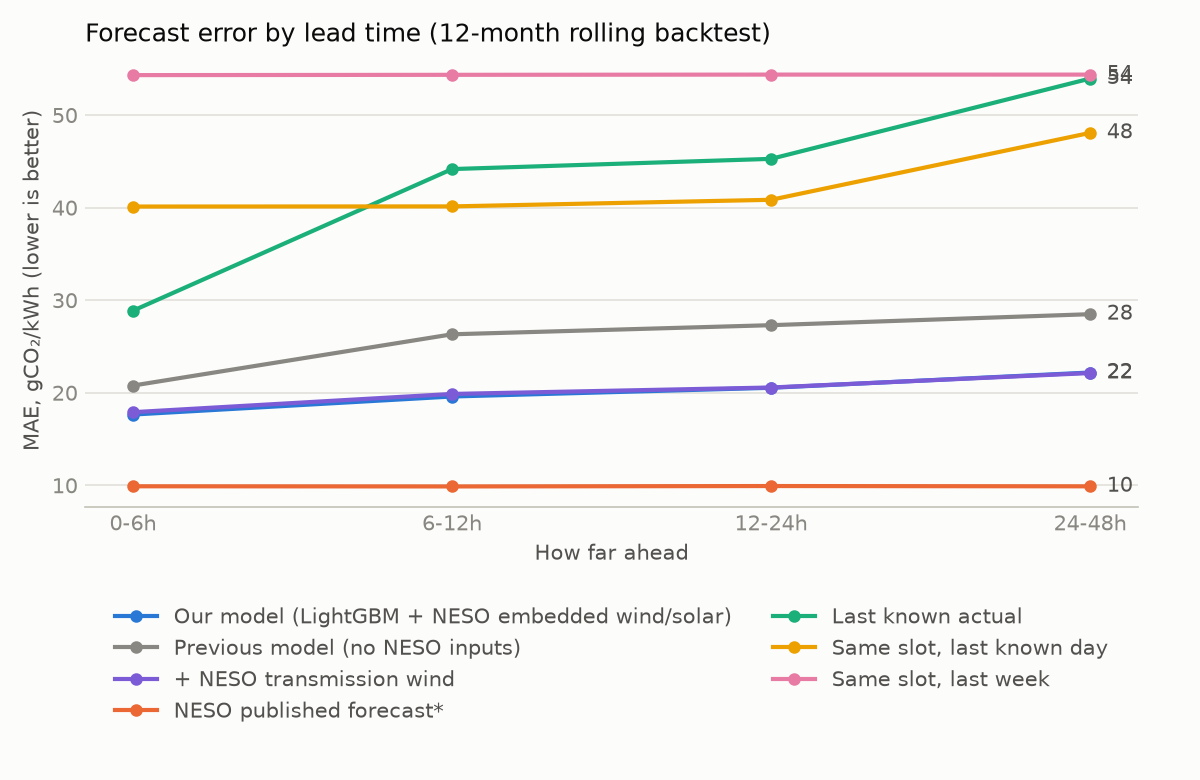
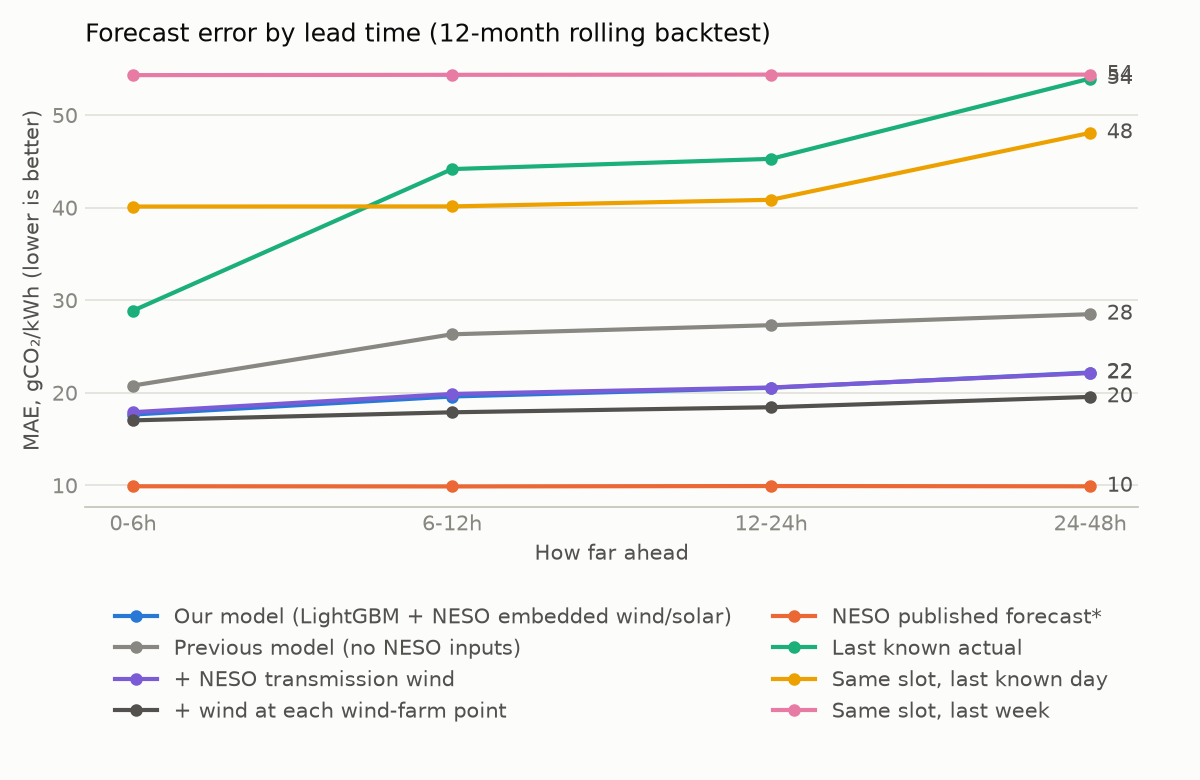
Wind speed at each wind-farm point: backtest candidate (not live yet)
Adds 8 wind-farm weather points and an 11-input wind variant to the backtest.
model_wind_points MAE 18.7 vs 20.9 (bootstrap -2.13, 95% -2.76 to -1.50).
Observed and snapshot fetches stay on the original 7 points to save quota;
the live model's FEATURES are unchanged until the MotherDuck backfill (PR2).

Changed region(s): [[0.6475, 0.7692, 0.925, 0.9231], [0.0925, 0.4923, 0.9558, 0.5538], [0.0925, 0.8923, 0.4317, 0.9231]]

diff --git a/analysis/backtest.py b/analysis/backtest.py
@@ -11,6 +11,7 @@ from __future__ import annotations
 import json
 import sys
 from datetime import UTC, datetime
+from itertools import cycle
 from pathlib import Path
 
 import matplotlib
@@ -52,23 +53,31 @@ variants = {
     "model": fc.FEATURES,
     "model_v2": fc.BASE_FEATURES,
     "model_neso_wind": fc.BASE_FEATURES + fc.NESO_FEATURES,
+    "model_wind_points": fc.FEATURES + fc.WIND_POINT_FEATURES,
 }
+# A wind point with gaps would quietly weaken model_wind_points; show coverage before trusting it.
+print(
+    "Non-null share per wind point:", wx[fc.WIND_POINT_FEATURES].notna().mean().round(3).to_dict()
+)
 preds = fc.backtest(grid, wx, hols, months=12, neso=neso, variants=variants)
 methods = {"model": "Our model (LightGBM + NESO embedded wind/solar)",
            "model_v2": "Previous model (no NESO inputs)",
            "model_neso_wind": "+ NESO transmission wind",
+           "model_wind_points": "+ wind at each wind-farm point",
            "neso": "NESO published forecast*",
            "last_actual": "Last known actual",
            "lag_day": "Same slot, last known day", "lag_week": "Same slot, last week"}  # fmt: skip
 table = fc.mae_by_lead(preds, list(methods))
+VARIANTS = ("model_v2", "model_neso_wind", "model_wind_points")  # each compared with the live one
 
 # Chart: MAE by lead band, one line per method (legend + direct labels).
 bands = [b for b in table.index if b != "all"]
 fig, ax = plt.subplots(figsize=(8, 5.2), dpi=150)
 fig.patch.set_facecolor(SURFACE)
 ax.set_facecolor(SURFACE)
+# Colours repeat if variants outnumber them, rather than crash after minutes of training.
 for (col, label), colour in zip(
-    methods.items(), (BLUE, MUTED, VIOLET, ORANGE, AQUA, YELLOW, MAGENTA), strict=True
+    methods.items(), cycle((BLUE, MUTED, VIOLET, INK2, ORANGE, AQUA, YELLOW, MAGENTA))
 ):
     ax.plot(bands, table.loc[bands, col], color=colour, linewidth=2, marker="o", markersize=5,
             label=label)  # fmt: skip
@@ -120,8 +129,8 @@ regret_table = pd.DataFrame(
     {"mean regret": regret.mean(), "share within 5 of best": (regret <= 5).mean()}
 ).rename(index=methods)
 intervals = pd.DataFrame(
-    [fc.paired_bootstrap(complete, v, "model") for v in ("model_v2", "model_neso_wind")],
-    index=[methods["model_v2"], methods["model_neso_wind"]],
+    [fc.paired_bootstrap(complete, v, "model") for v in VARIANTS],
+    index=[methods[v] for v in VARIANTS],
     columns=["MAE minus live model", "95% low", "95% high"],
 )
 every_h = pd.Timedelta(fc.ISSUE_EVERY) / pd.Timedelta(hours=1)
@@ -146,6 +155,9 @@ embedded wind/solar forecasts as inputs (the vintage issued before each forecast
 one); without them (the previous model) it scores **{overall["model_v2"]:.1f}**. Also adding
 NESO's transmission wind forecast gives **{overall["model_neso_wind"]:.1f}**, but its archive only
 covers the day each forecast is published, so most 48 h targets lack it and it is left out.
+Adding forecast wind speed at each of {len(fc.WIND_POINT_FEATURES)} wind points as separate inputs
+(the wind-farm clusters plus the points already averaged) gives
+**{overall["model_wind_points"]:.1f}** (a candidate, not live).
 
 ![MAE by lead](img/backtest_mae_by_lead.png)
 

diff --git a/tests/test_forecast.py b/tests/test_forecast.py
@@ -16,10 +16,44 @@ def spine(days: int, values=None) -> pd.DataFrame:
 def hourly_weather(days: int) -> pd.DataFrame:
     idx = pd.date_range(START, periods=days * 24, freq="h")
     rng = np.random.default_rng(0)
+    wind = rng.uniform(0, 60, len(idx))
     return pd.DataFrame(
-        {"wind_speed": rng.uniform(0, 60, len(idx)), "solar_radiation": 0.0, "temperature": 10.0},
+        {"wind_speed": wind, "solar_radiation": 0.0, "temperature": 10.0}
+        | dict.fromkeys(fc.WIND_POINT_FEATURES, wind),
         index=idx,
     )
+
+
+def test_weather_sql_has_a_wind_column_per_wind_point():
+    import duckdb
+
+    con = duckdb.connect()
+    con.execute(
+        "create table w (time timestamptz, point_id varchar, wind_speed_100m double, "
+        "shortwave_radiation double, temperature_2m double)"
+    )
+    t = START.to_pydatetime()
+    con.executemany(
+        "insert into w values (?, ?, ?, 0, 10)",
+        [(t, "dogger_bank_offshore", 30.0), (t, "north_scotland", 12.0)],
+    )
+    wx = con.sql(fc.GB_WEATHER_SQL.format(table="w", where="")).df().set_index("hour_utc")
+    assert set(fc.WIND_POINT_FEATURES) <= set(wx.columns)
+    # Each point's own speed, not an average; points with no row stay NULL rather than 0.
+    assert wx["wind_dogger_bank_offshore"].iloc[0] == 30.0
+    assert wx["wind_north_scotland"].iloc[0] == 12.0
+    assert pd.isna(wx["wind_thames_offshore"].iloc[0])
+
+
+def test_wind_points_are_pinned():
+    # WIND_POINTS comes from role strings; pin it so a role edit can't quietly change model inputs.
+    expected = (
+        "north_scotland", "south_scotland", "north_sea_offshore", "moray_firth_offshore",
+        "forth_offshore", "dogger_bank_offshore", "irish_sea_offshore", "lincs_offshore",
+        "east_anglia_offshore", "thames_offshore", "southern_uplands",
+    )  # fmt: skip
+    assert [f"wind_{p}" for p in expected] == fc.WIND_POINT_FEATURES
+    assert not set(fc.WIND_POINT_FEATURES) & set(fc.FEATURES)
 
 
 def test_features_never_use_data_after_issue_minus_lag():
@@ -333,3 +367,16 @@ def test_window_regret_can_skip_partly_scored_issues():
     preds.loc[(preds["issued_at"] == preds["issued_at"].max()) & (preds["lead"] > 10), "y"] = np.nan
     assert len(fc.window_regret(preds, ["b"])) == 30
     assert len(fc.window_regret(preds, ["b"], full_horizon=True)) == 29
+
+
+def test_fit_tolerates_all_missing_wind_point_columns():
+    # Live state on MotherDuck until the wind-farm points are backfilled: every wind_* is NaN.
+    pytest.importorskip("lightgbm")
+    grid = spine(30)
+    wx = hourly_weather(30)
+    wx[fc.WIND_POINT_FEATURES] = np.nan
+    cols = fc.FEATURES + fc.WIND_POINT_FEATURES
+    model = fc.fit(fc.training_rows(grid, wx, set(), START + pd.Timedelta(days=25)), cols)
+    test = fc.features(grid, wx, pd.DatetimeIndex([START + pd.Timedelta(days=27)]), set())
+    assert test[fc.WIND_POINT_FEATURES].isna().all().all()
+    assert np.isfinite(model.predict(test[cols])).all()

diff --git a/src/gridcarbon/extract/weather.py b/src/gridcarbon/extract/weather.py
@@ -38,7 +38,8 @@ class WeatherPoint:
     role: str  # why this point matters for the grid
 
 
-WEATHER_POINTS: tuple[WeatherPoint, ...] = (
+# The points the live features and dbt averages use; observed and snapshot fetches need no more.
+GRID_POINTS: tuple[WeatherPoint, ...] = (
     WeatherPoint("north_scotland", 57.48, -4.22, "onshore wind + hydro"),
     WeatherPoint("south_scotland", 55.86, -4.25, "onshore wind, demand"),
     WeatherPoint("north_sea_offshore", 53.90, 1.80, "offshore wind (Dogger/Hornsea area)"),
@@ -47,6 +48,20 @@ WEATHER_POINTS: tuple[WeatherPoint, ...] = (
     WeatherPoint("london", 51.51, -0.13, "demand, solar"),
     WeatherPoint("south_england_solar", 51.06, -1.80, "solar farms"),
 )
+WEATHER_POINTS: tuple[WeatherPoint, ...] = GRID_POINTS + (
+    # Wind-farm clusters (coordinates from Wikipedia's UK offshore wind farm list, Oct 2026), each
+    # a separate forecast input so the model learns their weight instead of us typing capacities.
+    WeatherPoint("moray_firth_offshore", 58.10, -2.95, "offshore wind (Beatrice, Moray E/W)"),
+    WeatherPoint("forth_offshore", 56.55, -1.85, "offshore wind (Seagreen, Neart na Gaoithe)"),
+    WeatherPoint("dogger_bank_offshore", 54.85, 1.80, "offshore wind (Dogger Bank)"),
+    WeatherPoint("irish_sea_offshore", 54.05, -3.55, "offshore wind (Walney, West of Duddon)"),
+    WeatherPoint("lincs_offshore", 53.35, 0.95, "offshore wind (Triton Knoll, Race Bank)"),
+    WeatherPoint("east_anglia_offshore", 52.10, 2.20, "offshore wind (East Anglia, Gabbard)"),
+    WeatherPoint("thames_offshore", 51.64, 1.55, "offshore wind (London Array)"),
+    WeatherPoint("southern_uplands", 55.40, -3.55, "onshore wind (Clyde area)"),
+)
+# Points whose wind speed is a separate forecast input (forecast.WIND_POINT_FEATURES).
+WIND_POINTS = tuple(p.point_id for p in WEATHER_POINTS if "wind" in p.role)
 
 WEATHER_COLUMNS = ["time", "point_id", "latitude", "longitude", *HOURLY_VARS]
 
@@ -127,7 +142,7 @@ def fetch_weather_observed(
     client: ApiClient,
     start: datetime,
     end: datetime,
-    points: tuple[WeatherPoint, ...] = WEATHER_POINTS,
+    points: tuple[WeatherPoint, ...] = GRID_POINTS,
 ) -> pd.DataFrame:
     return _fetch_range(client, ARCHIVE_URL, start, end, OBSERVED_MAX_DAYS, points)
 
@@ -144,7 +159,7 @@ def fetch_weather_historical_forecast(
 
 
 def fetch_weather_forecast(
-    client: ApiClient, issued_at: datetime, points: tuple[WeatherPoint, ...] = WEATHER_POINTS
+    client: ApiClient, issued_at: datetime, points: tuple[WeatherPoint, ...] = GRID_POINTS
 ) -> pd.DataFrame:
     """Snapshot of the live forecast (next ~3 days) as seen at `issued_at`."""
     issued_at = floor_hour(ensure_utc(issued_at))

diff --git a/src/gridcarbon/forecast.py b/src/gridcarbon/forecast.py
@@ -16,6 +16,8 @@ from pathlib import Path
 import numpy as np
 import pandas as pd
 
+from gridcarbon.extract.weather import WIND_POINTS
+
 HORIZON = 96  # half-hours = 48 h
 STEP = pd.Timedelta(minutes=30)
 ACTUAL_LAG = pd.Timedelta(hours=1)  # actuals publish late: never use the last hour before issue
@@ -40,6 +42,9 @@ NESO_FEATURES = ["neso_wind_mw", "neso_embedded_wind_mw", "neso_embedded_solar_m
 # archive only covers the day it is published, so most 48 h targets have no vintage. Revisit once
 # raw.neso_wind_14d_snapshots has a few weeks of history.
 FEATURES = BASE_FEATURES + ["neso_embedded_wind_mw", "neso_embedded_solar_mw"]
+# Forecast wind speed at each wind point (extract/weather.py WIND_POINTS), separately: the GB
+# average hides calm in one cluster while another blows. Candidate inputs, not yet live.
+WIND_POINT_FEATURES = [f"wind_{p}" for p in WIND_POINTS]
 NESO_LAG = pd.Timedelta(minutes=30)  # allowance for publication after Forecast_Timestamp
 NESO_SQL = {
     "raw.neso_wind_forecast": "forecast_mw as neso_wind_mw",
@@ -49,8 +54,10 @@ NESO_SQL = {
 log = logging.getLogger(__name__)
 HOLIDAYS_CSV = Path(__file__).resolve().parents[2] / "dbt" / "seeds" / "uk_bank_holidays.csv"
 
-# Same point roles as dbt/models/intermediate/int_weather_gb.sql, applied to forecast weather.
-GB_WEATHER_SQL = """
+# The three averages use the same point roles as dbt/models/intermediate/int_weather_gb.sql;
+# then one wind-speed column per WIND_POINTS entry (WIND_POINT_FEATURES).
+GB_WEATHER_SQL = (
+    """
     select time as hour_utc,
         avg(wind_speed_100m) filter (
             where point_id in ('north_scotland', 'south_scotland', 'north_sea_offshore')
@@ -60,10 +67,16 @@ GB_WEATHER_SQL = """
         ) as solar_radiation,
         avg(temperature_2m) filter (
             where point_id in ('manchester', 'birmingham', 'london')
-        ) as temperature
+        ) as temperature"""
+    + "".join(
+        f",\n        max(wind_speed_100m) filter (where point_id = '{p}') as wind_{p}"
+        for p in WIND_POINTS
+    )
+    + """
     from {table} {where}
     group by 1 order by 1
 """
+)
 
 
 def holidays() -> set:
@@ -156,6 +169,7 @@ def features(
             "wind_speed": weather["wind_speed"].to_numpy(),
             "solar_radiation": weather["solar_radiation"].to_numpy(),
             "temperature": weather["temperature"].to_numpy(),
+            **{c: weather[c].to_numpy() for c in WIND_POINT_FEATURES},
             "y": y.reindex(target).to_numpy(),
             "neso": grid["neso"].reindex(target).to_numpy(),
         }

diff --git a/tests/test_weather.py b/tests/test_weather.py
@@ -53,3 +53,31 @@ def test_a_missing_variable_fails_instead_of_loading_nulls(fixture_json):
     del payload[0]["hourly"]["wind_speed_100m"]  # e.g. Open-Meteo renames it
     with pytest.raises(ValueError, match="wind_speed_100m"):
         wx.parse_locations(payload, TWO_POINTS)
+
+
+def test_observed_and_snapshot_fetch_only_the_grid_points():
+    # Open-Meteo bills per location: the wind-farm points are only needed in the historical
+    # forecast (model training), so the hourly observed and snapshot fetches skip them.
+    import inspect
+
+    for fetch in (wx.fetch_weather_observed, wx.fetch_weather_forecast):
+        assert inspect.signature(fetch).parameters["points"].default == wx.GRID_POINTS
+    assert (
+        inspect.signature(wx.fetch_weather_historical_forecast).parameters["points"].default
+        == wx.WEATHER_POINTS
+    )
+    assert len(wx.GRID_POINTS) == 7
+
+
+def test_dbt_weather_point_ids_match_weather_py():
+    # int_weather_gb.sql keeps its own id lists; a rename in weather.py must fail here, not drift.
+    import re
+    from pathlib import Path
+
+    sql = (
+        Path(__file__).parents[1] / "dbt" / "models" / "intermediate" / "int_weather_gb.sql"
+    ).read_text()
+    ids = set(re.findall(r"'(\w+)'", sql[: sql.index("{{")]))  # skip ref('...')
+    assert ids <= {p.point_id for p in wx.WEATHER_POINTS}
+    cloud = sql[sql.index("as temperature_c") : sql.index("as cloud_cover_pct")]
+    assert set(re.findall(r"'(\w+)'", cloud)) == {p.point_id for p in wx.GRID_POINTS}

diff --git a/docs/backtest.md b/docs/backtest.md
@@ -19,16 +19,19 @@ embedded wind/solar forecasts as inputs (the vintage issued before each forecast
 one); without them (the previous model) it scores **27.0**. Also adding
 NESO's transmission wind forecast gives **20.9**, but its archive only
 covers the day each forecast is published, so most 48 h targets lack it and it is left out.
+Adding forecast wind speed at each of 11 wind points as separate inputs
+(the wind-farm clusters plus the points already averaged) gives
+**18.7** (a candidate, not live).
 
 ![MAE by lead](img/backtest_mae_by_lead.png)
 
-|  | Our model (LightGBM + NESO embedded wind/solar) | Previous model (no NESO inputs) | + NESO transmission wind | NESO published forecast* | Last known actual | Same slot, last known day | Same slot, last week |
-| --- | --- | --- | --- | --- | --- | --- | --- |
-| 0-6h | 17.6 | 20.8 | 17.9 | 9.9 | 28.9 | 40.1 | 54.3 |
-| 6-12h | 19.6 | 26.3 | 19.9 | 9.9 | 44.2 | 40.1 | 54.4 |
-| 12-24h | 20.5 | 27.3 | 20.6 | 9.9 | 45.3 | 40.8 | 54.4 |
-| 24-48h | 22.2 | 28.5 | 22.1 | 9.9 | 53.9 | 48.1 | 54.4 |
-| all | 20.9 | 27 | 20.9 | 9.9 | 47.4 | 44.3 | 54.4 |
+|  | Our model (LightGBM + NESO embedded wind/solar) | Previous model (no NESO inputs) | + NESO transmission wind | + wind at each wind-farm point | NESO published forecast* | Last known actual | Same slot, last known day | Same slot, last week |
+| --- | --- | --- | --- | --- | --- | --- | --- | --- |
+| 0-6h | 17.6 | 20.8 | 17.9 | 17 | 9.9 | 28.9 | 40.1 | 54.3 |
+| 6-12h | 19.6 | 26.3 | 19.9 | 17.9 | 9.9 | 44.2 | 40.1 | 54.4 |
+| 12-24h | 20.5 | 27.3 | 20.6 | 18.4 | 9.9 | 45.3 | 40.8 | 54.4 |
+| 24-48h | 22.2 | 28.5 | 22.1 | 19.6 | 9.9 | 53.9 | 48.1 | 54.4 |
+| all | 20.9 | 27 | 20.9 | 18.7 | 9.9 | 47.4 | 44.3 | 54.4 |
 
 \* **Read the NESO column with care.** The API only keeps NESO's *final* published forecast for
 each half-hour, not when it was made, so it is likely a short-lead forecast. That makes it a
@@ -41,13 +44,13 @@ at long leads to be somewhat higher than this backtest.
 
 **Bias** (mean of forecast minus actual, gCO₂/kWh; + = too high), by lead and by month:
 
-|  | Our model (LightGBM + NESO embedded wind/solar) | Previous model (no NESO inputs) | + NESO transmission wind | NESO published forecast* | Last known actual | Same slot, last known day | Same slot, last week |
-| --- | --- | --- | --- | --- | --- | --- | --- |
-| 0-6h | 0.4 | 2.9 | 0.3 | 0.1 | 0.2 | 0.2 | 0.7 |
-| 6-12h | 0.8 | 6 | 0.6 | 0.2 | 0.1 | 0.1 | 0.7 |
-| 12-24h | 1.1 | 7.4 | 1.1 | 0.2 | 0.2 | 0 | 0.7 |
-| 24-48h | 1.6 | 7.9 | 2.1 | 0.1 | 0.1 | -0 | 0.6 |
-| all | 1.3 | 6.9 | 1.4 | 0.1 | 0.1 | 0 | 0.6 |
+|  | Our model (LightGBM + NESO embedded wind/solar) | Previous model (no NESO inputs) | + NESO transmission wind | + wind at each wind-farm point | NESO published forecast* | Last known actual | Same slot, last known day | Same slot, last week |
+| --- | --- | --- | --- | --- | --- | --- | --- | --- |
+| 0-6h | 0.4 | 2.9 | 0.3 | 1.1 | 0.1 | 0.2 | 0.2 | 0.7 |
+| 6-12h | 0.8 | 6 | 0.6 | 1.7 | 0.2 | 0.1 | 0.1 | 0.7 |
+| 12-24h | 1.1 | 7.4 | 1.1 | 1.9 | 0.2 | 0.2 | 0 | 0.7 |
+| 24-48h | 1.6 | 7.9 | 2.1 | 2.4 | 0.1 | 0.1 | -0 | 0.6 |
+| all | 1.3 | 6.9 | 1.4 | 2 | 0.1 | 0.1 | 0 | 0.6 |
 
 |  | Our model (LightGBM + NESO embedded wind/solar) | Previous model (no NESO inputs) | NESO published forecast* |
 | --- | --- | --- | --- |
@@ -74,6 +77,7 @@ the actual intensity in that block with the truly cleanest block. Regret is the 
 | Our model (LightGBM + NESO embedded wind/solar) | 6.7 | 0.662 |
 | Previous model (no NESO inputs) | 9.57 | 0.558 |
 | + NESO transmission wind | 6.74 | 0.672 |
+| + wind at each wind-farm point | 5.86 | 0.674 |
 | NESO published forecast* | 2.99 | 0.83 |
 | Last known actual | 57.5 | 0.128 |
 | Same slot, last known day | 30.4 | 0.295 |
@@ -88,6 +92,7 @@ only if the whole interval is below zero.
 | --- | --- | --- | --- |
 | Previous model (no NESO inputs) | 6.07 | 4.83 | 7.26 |
 | + NESO transmission wind | 0.05 | -0.16 | 0.23 |
+| + wind at each wind-farm point | -2.13 | -2.76 | -1.5 |
 
 **What drives the model** (share of total gain):
 

diff --git a/docs/dev_log.md b/docs/dev_log.md
@@ -247,3 +247,28 @@ ours) against actuals later.
   greenest-window regret (about 3 g CO₂ on a 7 kWh EV charge), against a 3 GB dependency in the
   hourly run, a second model to maintain, and a backtest-to-live gap bigger than the gain. The
   script stays so it can be re-run in a few minutes if the inputs change a lot.
+
+## 2026-10-19: wind speed at each wind-farm point (candidate `model_wind_points`)
+
+- **Question:** the model sees GB wind as one average over 3 points. Does it do better when it
+  sees forecast 100 m wind speed at each wind area as its own input and learns their weights
+  itself, rather than us typing in capacities? 8 points were added to `WEATHER_POINTS`: 7
+  offshore clusters (Moray Firth, Forth, Dogger Bank, Irish Sea, Lincs, East Anglia, Thames)
+  and the Southern Uplands. That makes 11 wind inputs (`forecast.WIND_POINT_FEATURES`),
+  including the 3 already averaged. The `cloud_cover_pct` average stays on the original 7 points
+  so the existing series doesn't shift.
+- **Backfill:** historical forecasts from 2022-01-01 for all 15 points (317,967 new rows). Every
+  point has 42,064 hours with no nulls. A resume run skipped the new points at first, because
+  their windows were already in `meta.load_log`, so it was re-run with `--no-resume`.
+- **Result: better, and the interval is entirely below zero.** MAE was 18.7 vs 20.9 for the live
+  model: -2.13, with a 95% interval of -2.76 to -1.50. It is better at every lead band (17.0 / 17.9 /
+  18.4 / 19.6 vs 17.6 / 19.6 / 20.5 / 22.2) and its greenest-3h-window regret is 5.86 vs 6.70.
+- **Caveat:** the gain grows with lead time, from 0.6 at 0-6 h to 2.6 at 24-48 h. Long leads are
+  where Open-Meteo's historical forecasts flatter us most, because they are stitched from the
+  first hours of each run. Expect the live gain at long leads to be smaller.
+- **Decision: go, as a separate change.** It switches `FEATURES`, bumps the model version and
+  backfills MotherDuck before the live model reads the new points. If a point's forecast is missing,
+  the model falls back to NaN (LightGBM handles it) rather than failing the run.
+- **Quota:** Open-Meteo bills each location separately, so only the historical forecast (which
+  the model trains on) requests the wind-farm points. The hourly observed and live snapshot
+  fetches stay on the original 7 (`GRID_POINTS`) until a live feature needs more.
